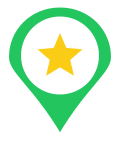
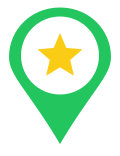
style: pin tail to variant A (ends at 50)
B cut too deep and the teardrop stopped reading as one. Tail ends at
50 (viewBox 40x52); render sizes follow at 32x42 / 38x49.

diff --git a/app/(tabs)/index.tsx b/app/(tabs)/index.tsx
@@ -446,7 +446,7 @@ export default function MapScreen() {
               // 클러스터 마커는 앵커 지정이 안 돼(ClusterMarkerProp) 하단 중앙 고정 —
               // 꼬리 끝이 좌표를 찍는 핀을 그대로 쓴다. 원형은 개별 마커 전용.
               width: 32,
-              height: 38,
+              height: 42,
             })),
     [captionMode, places, selectedPlaceId]
   );
@@ -573,7 +573,7 @@ export default function MapScreen() {
                 : MARKER_IMAGES[selectedPlace.category]
             }
             width={38}
-            height={46}
+            height={49}
             anchor={{ x: 0.5, y: 1 }}
             zIndex={100}
           />

diff --git a/app/search-results.tsx b/app/search-results.tsx
@@ -186,7 +186,7 @@ export default function SearchResultsScreen() {
                 longitude={item.place.longitude}
                 anchor={isSelected ? { x: 0.5, y: 1 } : { x: 0.5, y: 0.5 }}
                 width={isSelected ? 38 : 30}
-                height={isSelected ? 46 : 30}
+                height={isSelected ? 49 : 30}
                 image={
                   isSelected
                     ? MARKER_IMAGES[item.place.category]

diff --git a/components/map/TempPlaceMarker.tsx b/components/map/TempPlaceMarker.tsx
@@ -18,7 +18,7 @@ export default function TempPlaceMarker({ latitude, longitude, circle }: Props) 
       longitude={longitude}
       image={circle ? GENERAL_MARKER_CIRCLE : require('@/assets/images/markers/general.png')}
       width={circle ? 30 : 32}
-      height={circle ? 30 : 38}
+      height={circle ? 30 : 42}
       anchor={circle ? { x: 0.5, y: 0.5 } : { x: 0.5, y: 1 }}
       zIndex={90}
     />
